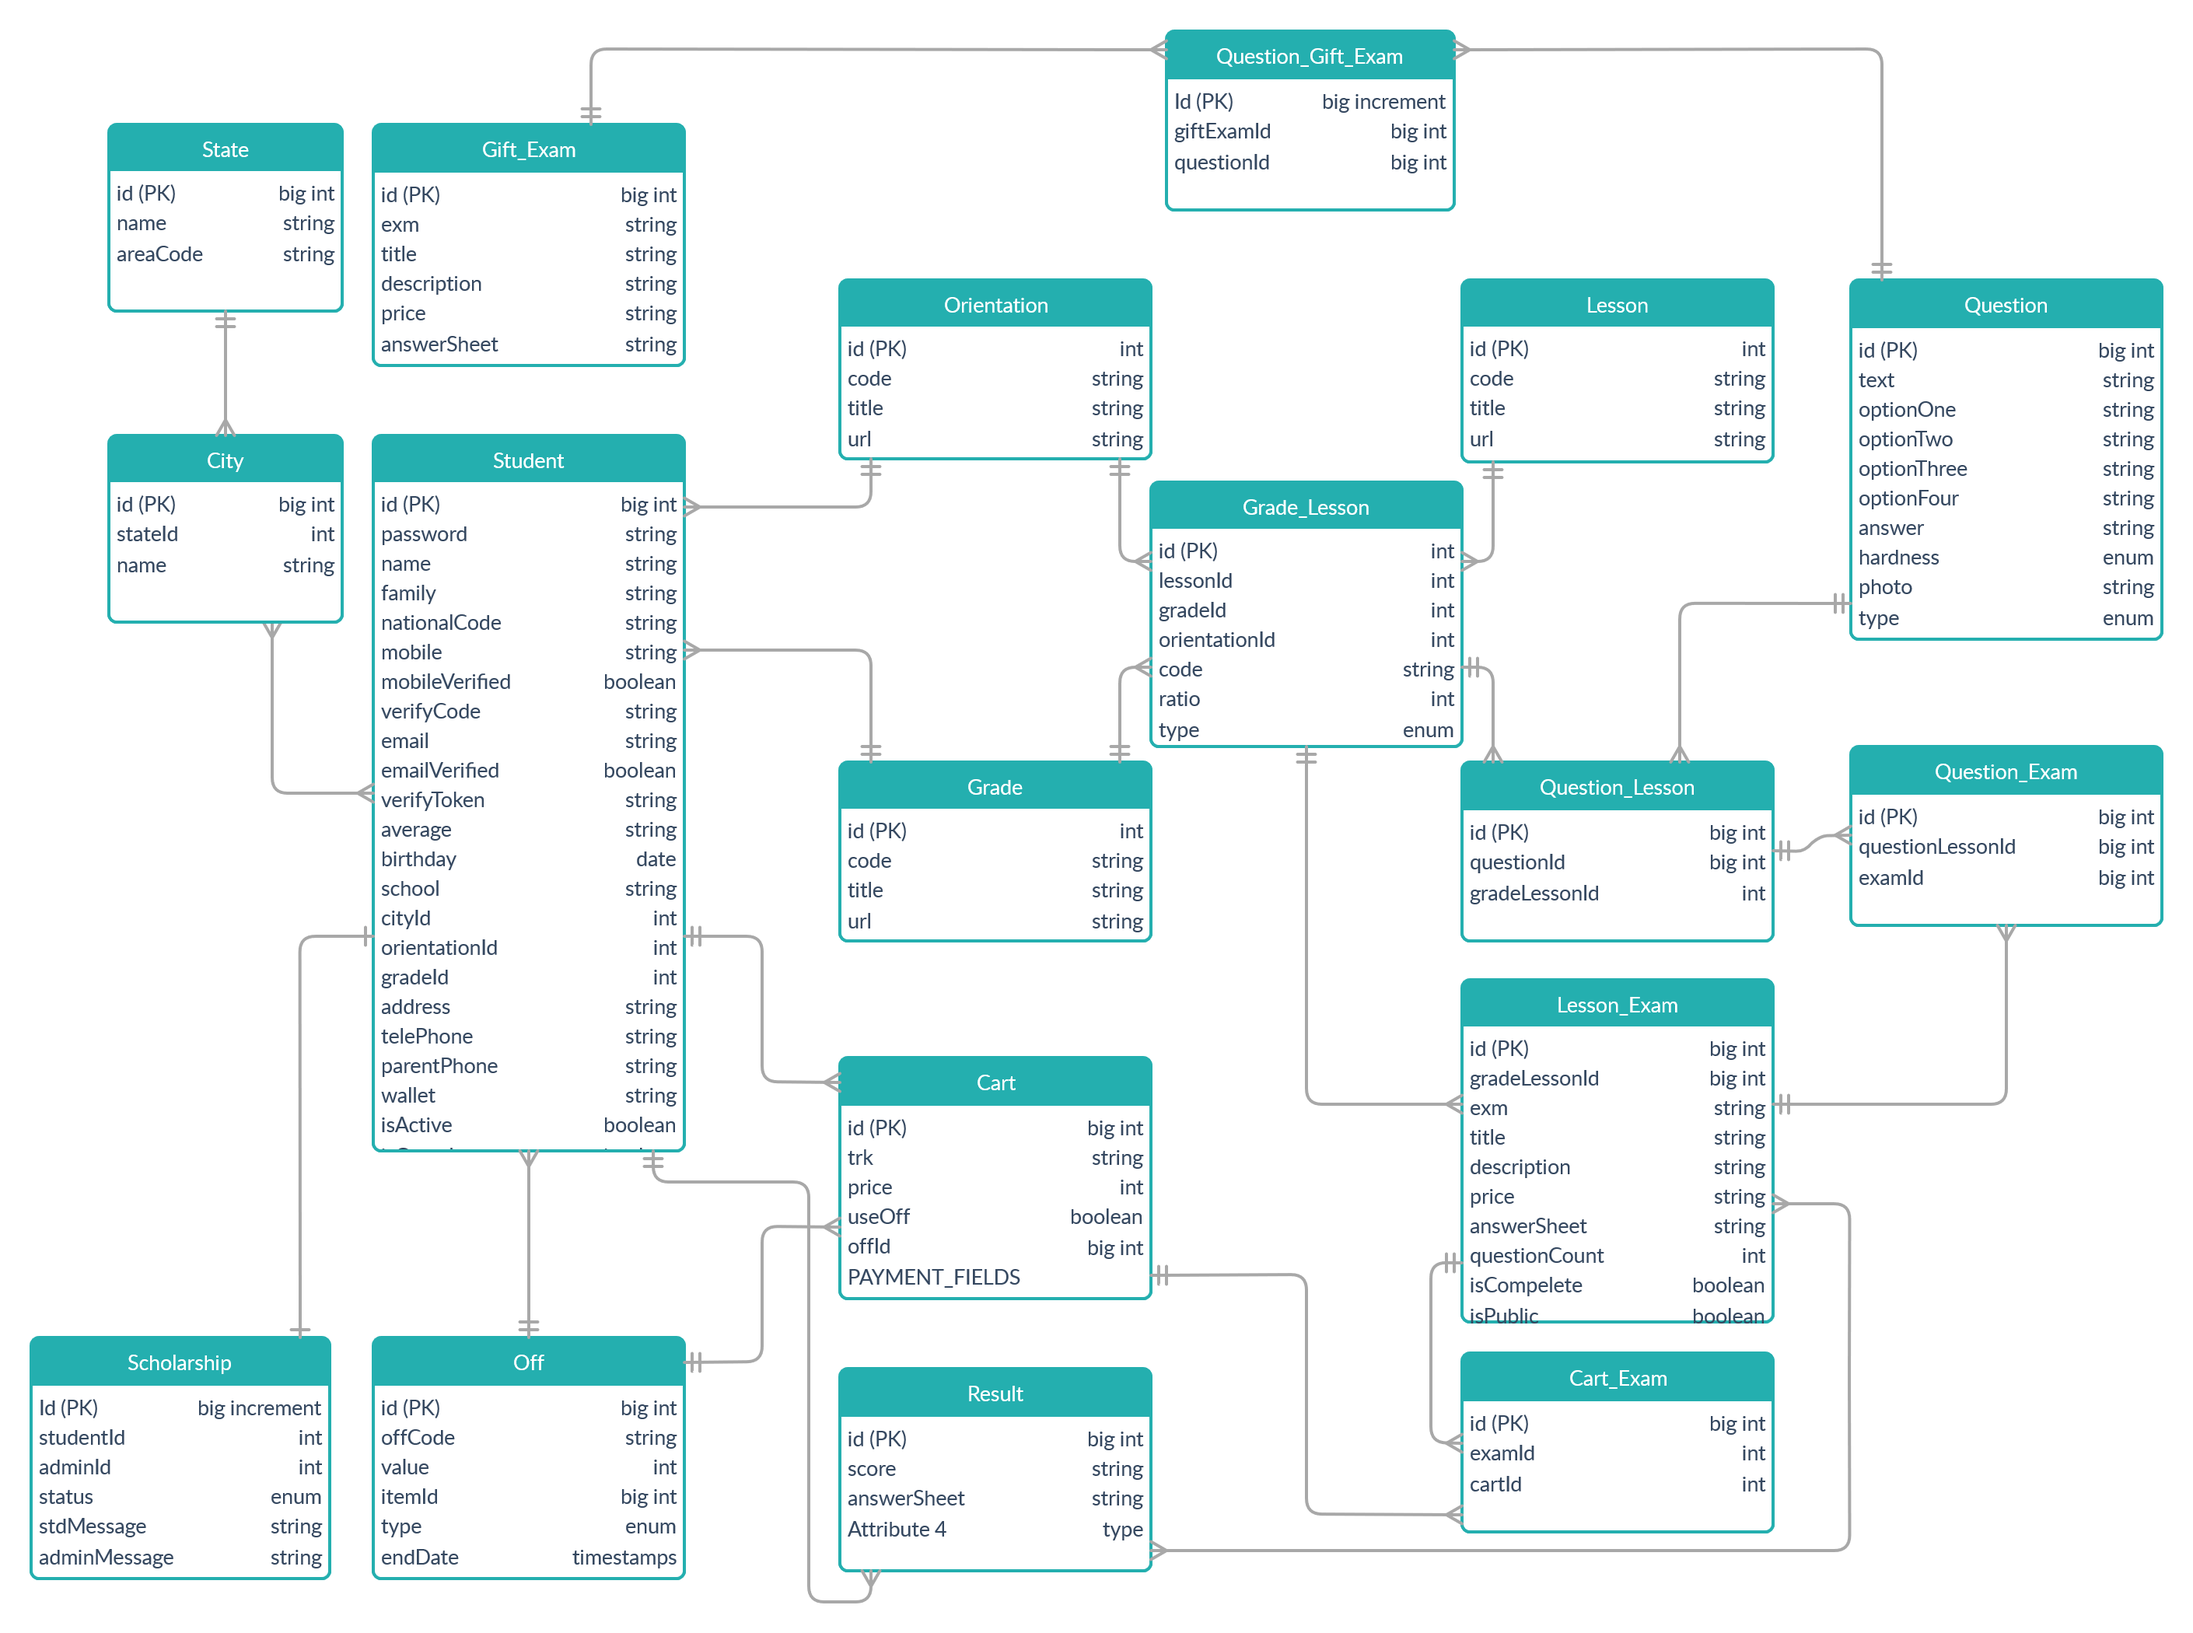
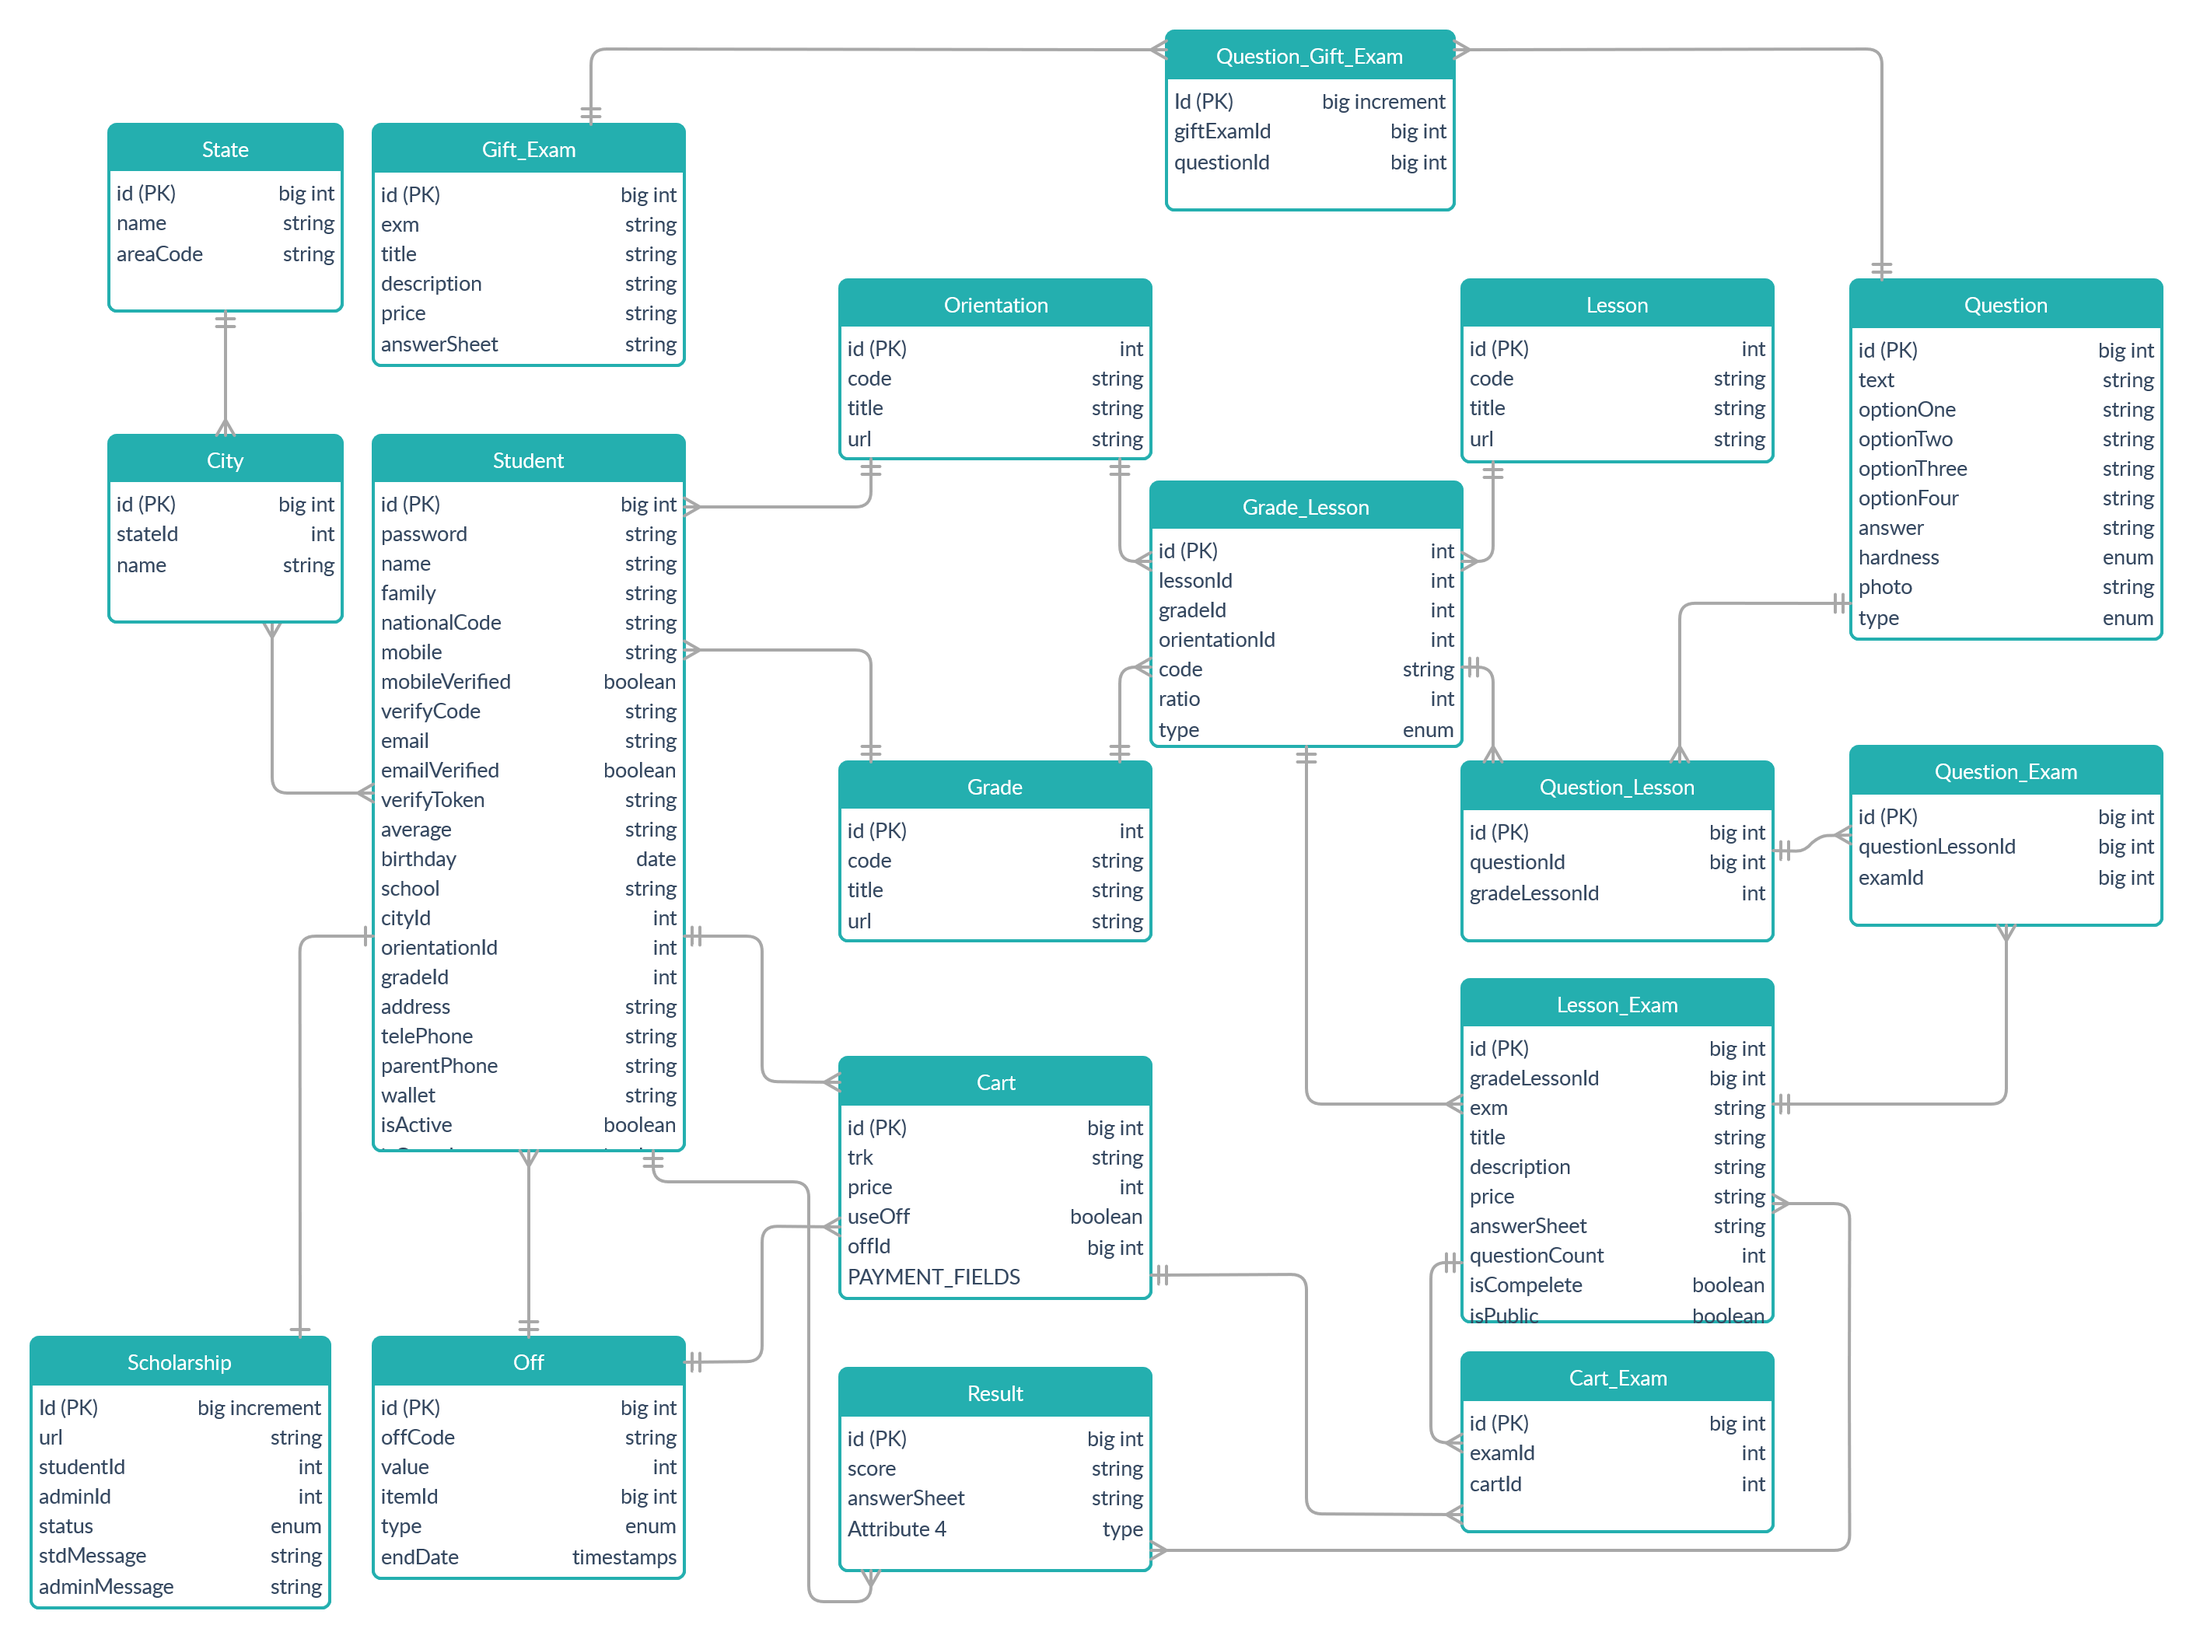
update scholarship

diff --git a/resources/views/admin/dashboard/scholarship/form.blade.php b/resources/views/admin/dashboard/scholarship/form.blade.php
@@ -1,0 +1,63 @@
+@extends('layouts.admin_dashboard')
+
+@section('content')
+
+	<div class="row">
+		<div class="col-md-12">
+			<div class="card text-right">
+				<div class="header ">
+					<h4 class="title">افزودن مقطع</h4>
+				</div>
+
+
+				@if ($errors->any())
+					<div class="alert alert-danger">
+						<ul>
+							@foreach ($errors->all() as $error)
+								<li>{{ $error }}</li>
+							@endforeach
+						</ul>
+					</div>
+				@endif
+
+				<div class="content">
+					<form method="post" action="{{  $modify == 0 ? route('admin_grades_add') : route('admin_grades_edit', ['url' => $grade->url]) }}">
+
+						{{csrf_field()}}
+
+						<div class="row">
+							<div class="col-md-4">
+								<div class="form-group">
+									<label>پارامتر مقطع</label>
+									<input name="urlGrade" dir="rtl" type="text" class="form-control"
+										   placeholder="مثلا: tenth-grade" value="{{old('urlGrade') ? old('urlGrade') : ''}} {{ $modify==1 && !old('urlGrade') ? $grade->url : '' }}">
+								</div>
+							</div>
+							<div class="col-md-4">
+								<div class="form-group">
+									<label>کد مقطع</label>
+									<input name="codeGrade" dir="rtl" type="text" class="form-control"
+										   placeholder="مثلا: 10" value="{{old('codeGrade') ? old('codeGrade') : ''}} {{ $modify==1 && !old('codeGrade') ? $grade->code : '' }}">
+								</div>
+							</div>
+							<div class="col-md-4">
+								<div class="form-group">
+									<label>عنوان مقطع</label>
+									<input name="titleGrade" dir="rtl" type="text" class="form-control"
+										   placeholder="مثلا: مقطع دهم" value="{{old('titleGrade') ? old('titleGrade') : '' }} {{ $modify==1 && !old('titleGrade') ? $grade->title : '' }}">
+								</div>
+							</div>
+						</div>
+
+
+						<button type="submit" class="btn btn-info btn-fill pull-right">افزودن</button>
+						<div class="clearfix"></div>
+					</form>
+				</div>
+			</div>
+		</div>
+
+
+	</div>
+
+@endsection

diff --git a/database/migrations/2019_08_17_132001_create_scholarship_table.php b/database/migrations/2019_08_17_132001_create_scholarship_table.php
@@ -4,34 +4,39 @@ use Illuminate\Support\Facades\Schema;
 use Illuminate\Database\Schema\Blueprint;
 use Illuminate\Database\Migrations\Migration;
 
+
 class CreateScholarshipTable extends Migration
 {
-    /**
-     * Run the migrations.
-     *
-     * @return void
-     */
-    public function up()
-    {
-        Schema::create('scholarship', function (Blueprint $table) {
-            $table->bigIncrements('id');
-            $table->integer('studentId');
-            $table->integer('adminId');
-            $table->enum('status',['ACCEPT','DECLINE','INPROGRESS']);
-            $table->text('stdMessage');
-            $table->text('adminMessage');
-            $table->timestamps();
-            $table->softDeletes();
-        });
-    }
+	/**
+	 * Run the migrations.
+	 *
+	 * @return void
+	 */
+	public function up()
+	{
+		Schema::create('scholarship', function(Blueprint $table)
+		{
+			$table->bigIncrements('id');
+			$table->string('url');
+			$table->integer('studentId');
+			$table->integer('adminId')->default(0);
+			$table->enum('status', ['ACCEPT', 'DECLINE', 'IN-PROGRESS', 'NOT-SEEN'])->default('NOT-SEEN');
+			$table->text('stdMessage');
+			$table->text('adminMessage')->nullable();
+			$table->timestamps();
+			$table->softDeletes();
+		});
+	}
 
-    /**
-     * Reverse the migrations.
-     *
-     * @return void
-     */
-    public function down()
-    {
-        Schema::dropIfExists('scholarship');
-    }
+
+
+	/**
+	 * Reverse the migrations.
+	 *
+	 * @return void
+	 */
+	public function down()
+	{
+		Schema::dropIfExists('scholarship');
+	}
 }

diff --git a/resources/views/admin/dashboard/scholarship/scholarships.blade.php b/resources/views/admin/dashboard/scholarship/scholarships.blade.php
@@ -1,0 +1,54 @@
+@extends('layouts.admin_dashboard')
+
+@section('content')
+
+	<div class="row">
+		<div class="col-md-12">
+			<div class="card">
+				<div class="header">
+					<h4 class="title text-right">بورسیه ها</h4>
+					<p class="category text-right">زیرنویس جدول</p>
+				</div>
+				<div dir="rtl" class="content table-responsive table-full-width">
+					<table class="table table-hover table-striped">
+						<thead class="text-right">
+						<th>کدمقطع</th>
+						<th>عنوان مقطع</th>
+						<th>فرآیند</th>
+						</thead>
+						<tbody class="text-center">
+						@foreach($scholarships as $scholarShip)
+							<tr>
+								<td>{{$scholarShip->code}}</td>
+								<td>{{$scholarShip->status}}</td>
+								<td>
+
+									<a href="{{route('admin_grades_remove',['url' => $scholarShip->url])}}" id="remove-btn" type="button"
+											style="font-size: 12px;" class="btn btn-danger">
+										حذف
+									</a>
+									<a href="{{route('admin_grades_editShow',['url' => $scholarShip->url])}}" style="font-size: 12px;" class="btn btn-info">
+										ویرایش
+									</a>
+
+								</td>
+							</tr>
+						@endforeach
+
+						</tbody>
+					</table>
+
+				</div>
+			</div>
+		</div>
+	</div>
+@endsection
+
+@section('script')
+
+	<script>
+
+
+	</script>
+
+@endsection

diff --git a/app/model/Scholarship.php b/app/model/Scholarship.php
@@ -5,6 +5,7 @@ namespace App\model;
 use Illuminate\Database\Eloquent\Model;
 use Illuminate\Database\Eloquent\SoftDeletes;
 
+
 /**
  * @property \Carbon\Carbon $created_at
  * @property \Carbon\Carbon $updated_at
@@ -16,11 +17,29 @@ use Illuminate\Database\Eloquent\SoftDeletes;
  * @property string $adminMessage
  * @property \Carbon\Carbon $deleted_at
  */
-
 class Scholarship extends Model
 {
-    //
-    use SoftDeletes;
-    protected $table='scholarship';
+	//
+	use SoftDeletes;
+
+	protected $table = 'scholarship';
+
+
+
+	protected static function boot()
+	{
+		parent::boot();
+
+		self::creating(function($model)
+		{
+
+			while (self::where('hash', $url = substr(md5(uniqid(rand(), true)),0,4))->exists())
+			{
+				;
+			}
+
+			$model->url = $url;
+		});
+	}
 
 }

diff --git a/routes/web.php b/routes/web.php
@@ -72,7 +72,6 @@ Route::namespace('Admin')->group(function()
 			});
 
 
-
 		});
 
 
@@ -117,6 +116,12 @@ Route::namespace('Admin')->group(function()
 			Route::post('/add', 'LessonController@add')->name('admin_lessons_add');
 			Route::get('/edit/{url}', 'LessonController@editShow')->name('admin_lessons_editShow');
 			Route::post('/edit/{url}', 'LessonController@edit')->name('admin_lessons_edit');
+		});
+
+		Route::prefix('scholarships')->group(function()
+		{
+			Route::get('/','ScholarshipController@scholarships')->name('admin_scholarships');
+			Route::get('/editShow/{url}','ScholarshipController@editShow')->name('admin_scholarships_editShow');
 		});
 
 

diff --git a/app/Http/Controllers/Admin/Dashboard/ScholarshipController.php b/app/Http/Controllers/Admin/Dashboard/ScholarshipController.php
@@ -1,0 +1,27 @@
+<?php
+
+namespace App\Http\Controllers\Admin\Dashboard;
+
+use App\model\Scholarship;
+use Illuminate\Http\Request;
+use App\Http\Controllers\Controller;
+
+
+class ScholarshipController extends Controller
+{
+	public function scholarships()
+	{
+		$scholarships = Scholarship::all();
+
+		return view('admin.dashboard.scholarship.scholarships',compact('scholarships'));
+	}
+
+
+
+	public function editShow($url)
+	{
+		$scholarship = Scholarship::query()->where('url',$url)->first();
+
+		return view('admin.dashboard.scholarship.form',compact('scholarship'));
+	}
+}

diff --git a/resources/views/layouts/admin_dashboard.blade.php b/resources/views/layouts/admin_dashboard.blade.php
@@ -87,6 +87,12 @@
 						<p>ادمین ها</p>
 					</a>
 				</li>
+				<li class="{{Illuminate\Support\Facades\Route::currentRouteName() == 'admin_scholarships' ? 'active' : ''}}">
+					<a href="{{route('admin_scholarships')}}">
+						<i class="pe-7s-news-paper"></i>
+						<p>بورسیه ها</p>
+					</a>
+				</li>
 
 
 			</ul>
